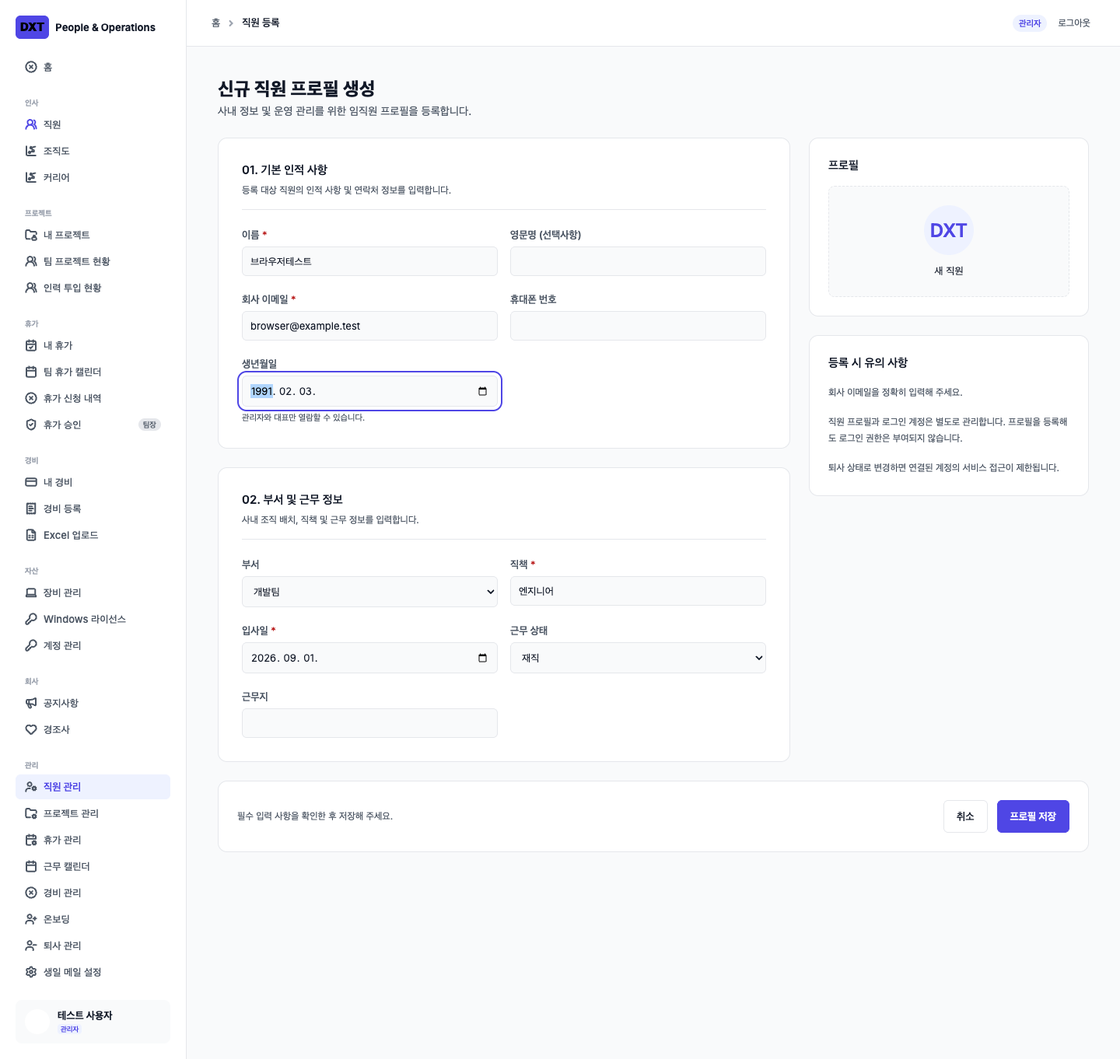
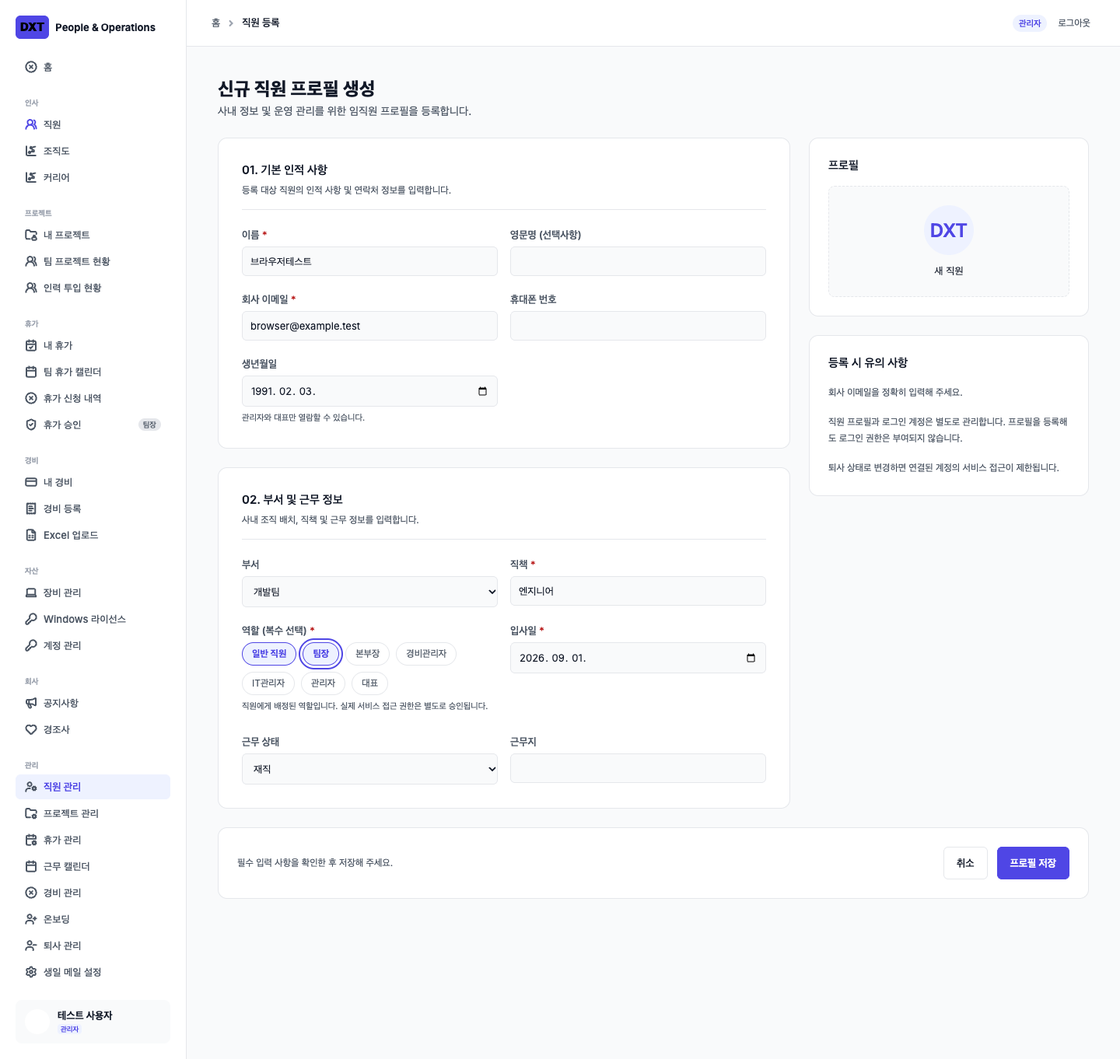
Add atomic employee-domain role assignment without auth escalation

diff --git a/tests/employee-roles.test.ts b/tests/employee-roles.test.ts
@@ -1,0 +1,69 @@
+import { test } from 'node:test';
+import assert from 'node:assert/strict';
+import { domainDatabase, asUser, personId } from './domain-fixture';
+import { idFor } from './e2e/fixtures';
+import { employeeInput } from '../src/lib/employees/validation';
+import { ROLES, can, parseMembership } from '../src/lib/permissions';
+const profile = { name: '역할 테스트', company_email: 'roles@example.test', title: '개발자', hire_date: '2026-09-01', employment_status: 'ACTIVE', roles: ['EMPLOYEE','TEAM_LEADER','IT_ADMIN'] };
+test('role validation requires approved values and deduplicates multi-select submissions', () => {
+ const form = new FormData();
+ for (const [key,value] of Object.entries(profile)) if (key !== 'roles') form.set(key,String(value));
+ assert.throws(()=>employeeInput(form));
+ form.append('roles','EMPLOYEE'); form.append('roles','TEAM_LEADER'); form.append('roles','TEAM_LEADER');
+ assert.deepEqual(employeeInput(form).roles,['EMPLOYEE','TEAM_LEADER']);
+ form.append('roles','PRIVATE_HR_ACCESS');assert.throws(()=>employeeInput(form));
+});
+test('domain roles migrate, persist atomically and never grant auth privileges', async () => {
+ const db = await domainDatabase();
+ const roles = async (id: string) => (await db.query<{role:string}>('select role from employee_role where employee_id=$1 order by role',[id])).rows.map(row=>row.role);
+ const readProfile = async (id: string) => (await db.query<{name:string;version:number}>('select name,version from employee where id=$1',[id])).rows[0];
+ try {
+  // Upgrade of a pre-existing profile gets an ordinary domain role only.
+  assert.deepEqual(await roles(personId),['EMPLOYEE']);
+  const newId = crypto.randomUUID();
+  const beforeMembers = (await db.query('select * from app_memberships order by user_id')).rows;
+  const beforeUsers = (await db.query('select * from auth.users order by id')).rows;
+  await asUser(db,'admin',tx=>tx.query('select save_employee_profile($1,$2,0)',[newId,profile]));
+  assert.deepEqual(await roles(newId),['EMPLOYEE','IT_ADMIN','TEAM_LEADER']);
+  assert.equal((await db.query<{auth_user_id:string|null}>('select auth_user_id from employee where id=$1',[newId])).rows[0].auth_user_id,null);
+  await asUser(db,'employee',async tx=>assert.equal((await tx.query('select * from employee_role where employee_id=$1',[newId])).rows.length,3));
+  for (const name of ['employee','leader','division','expense','it','combined','inactive','unprovisioned']) {
+   await assert.rejects(asUser(db,name,tx=>tx.query("insert into employee_role values($1,'CEO')",[newId])));
+   await asUser(db,name,async tx=>{
+    assert.equal((await tx.query("update employee_role set role='CEO' where employee_id=$1 returning role",[newId])).rows.length,0);
+    assert.equal((await tx.query('delete from employee_role where employee_id=$1 returning role',[newId])).rows.length,0);
+   });
+   await assert.rejects(asUser(db,name,tx=>tx.query('select save_employee_profile($1,$2,1)',[newId,{...profile,roles:['CEO']}])));
+  }
+  for (const invalid of [[],['UNKNOWN'],['HR_ADMIN'],['PRIVATE_HR_ACCESS'],[null],'CEO',null]) {
+   await assert.rejects(asUser(db,'admin',tx=>tx.query('select save_employee_profile($1,$2,1)',[newId,{...profile,name:'must roll back',roles:invalid}])));
+  }
+  await assert.rejects(asUser(db,'admin',tx=>tx.query("insert into employee_role values($1,'INVALID')",[newId])));
+  await assert.rejects(asUser(db,'admin',tx=>tx.query('delete from employee_role where employee_id=$1',[newId])));
+  assert.deepEqual(await roles(newId),['EMPLOYEE','IT_ADMIN','TEAM_LEADER']);
+  assert.deepEqual(await readProfile(newId),{name:profile.name,version:1});
+  await asUser(db,'admin',tx=>tx.query('select save_employee_profile($1,$2,1)',[newId,{...profile,name:'Updated',roles:['EMPLOYEE','CEO']} ]));
+  await assert.rejects(asUser(db,'admin',tx=>tx.query('select save_employee_profile($1,$2,1)',[newId,{...profile,roles:['ADMIN']}])));
+  assert.deepEqual(await roles(newId),['CEO','EMPLOYEE']);assert.deepEqual(await readProfile(newId),{name:'Updated',version:2});
+  // A later ciphertext constraint failure rolls profile AND role replacement back.
+  await assert.rejects(asUser(db,'admin',tx=>tx.query('select save_employee_profile($1,$2,2,$3)',[newId,{...profile,roles:['ADMIN']},'plaintext-invalid'])));
+  assert.deepEqual(await roles(newId),['CEO','EMPLOYEE']);assert.equal((await readProfile(newId)).version,2);
+  const failedId=crypto.randomUUID();
+  await assert.rejects(asUser(db,'admin',tx=>tx.query('select save_employee_profile($1,$2,0,$3)',[failedId,{...profile,company_email:'failed@example.test'},'plaintext-invalid'])));
+  assert.equal(await readProfile(failedId),undefined);assert.deepEqual(await roles(failedId),[]);
+  // Linked ordinary ADMIN assigns CEO in their HR profile: PRIVATE_HR_ACCESS stays denied.
+  await db.query('update employee set auth_user_id=$1 where id=$2',[idFor('admin'),newId]);
+  await asUser(db,'admin',async tx=>{
+   const capability = await tx.query<{allowed:boolean}>("select has_app_capability('PRIVATE_HR_ACCESS') as allowed");assert.equal(capability.rows[0].allowed,false);
+   assert.equal((await tx.query('select * from employee_private_hr')).rows.length,0);
+   const membership = (await tx.query('select * from app_memberships')).rows[0];
+   assert.equal(can(parseMembership(idFor('admin'),membership)!, 'PRIVATE_HR_ACCESS'),false);
+  });
+  // All seven domain roles may coexist, with no automatic membership changes.
+  await asUser(db,'ceo',tx=>tx.query('select save_employee_profile($1,$2,2)',[newId,{...profile,roles:[...ROLES]}]));
+  assert.equal((await roles(newId)).length,7);
+  assert.deepEqual((await db.query('select * from app_memberships order by user_id')).rows,beforeMembers);
+  assert.deepEqual((await db.query('select * from auth.users order by id')).rows,beforeUsers);
+  await asUser(db,'inactive',async tx=>assert.equal((await tx.query('select * from employee_role')).rows.length,0));
+ } finally { await db.close(); }
+});

diff --git a/tests/e2e/employees.spec.ts b/tests/e2e/employees.spec.ts
@@ -19,16 +19,23 @@ test('admin creates, validates, edits and inactivates a profile without private 
  await page.getByLabel('회사 이메일').fill('browser@example.test');await page.getByLabel('직책',{exact:false}).fill('엔지니어');
  await page.getByLabel('입사일').fill('2026-09-01');await page.getByLabel('생년월일',{exact:true}).fill('1991-02-03');
  await page.getByLabel('부서',{exact:true}).selectOption('20000000-0000-4000-8000-000000000001');
+ await page.getByRole('checkbox',{name:'팀장',exact:true}).press('Space');
+ await expect(page.getByRole('checkbox',{name:'팀장',exact:true})).toBeChecked();
  await page.screenshot({path:'docs/screenshots/phase2-employee-new.png',fullPage:true});
  await page.getByRole('button',{name:'프로필 저장'}).click();await expect(page.getByRole('status')).toHaveText('프로필이 저장되었습니다.');
  await expect(page.getByRole('link',{name:'HR Private'})).toHaveCount(0);
+ await expect(page.getByText('일반 직원 · 팀장',{exact:true})).toBeVisible();
  await page.screenshot({path:'docs/screenshots/phase2-employee-detail.png',fullPage:true});
  await page.getByRole('link',{name:'프로필 수정',exact:true}).click();
  await expect(page.getByRole('heading',{name:'직원 프로필 수정',exact:true})).toBeVisible();
  await expect(page.getByLabel('생년월일',{exact:true})).toHaveValue('');
  await page.getByRole('button',{name:'등록된 생년월일 열람'}).click();await expect(page.getByRole('status')).toHaveText('1991-02-03');
  await page.getByRole('button',{name:'생년월일 숨기기'}).click();await expect(page.getByText('1991-02-03',{exact:true})).toHaveCount(0);
+ await expect(page.getByRole('checkbox',{name:'팀장',exact:true})).toBeChecked();
+ await page.getByRole('checkbox',{name:'팀장',exact:true}).press('Space');
+ await page.getByRole('checkbox',{name:'IT관리자',exact:true}).press('Space');
  await page.getByLabel('근무 상태',{exact:true}).selectOption('INACTIVE');await page.getByRole('button',{name:'프로필 저장'}).click();await expect(page.getByRole('status')).toHaveText('프로필이 저장되었습니다.');
+ await expect(page.getByText('일반 직원 · IT관리자',{exact:true})).toBeVisible();
  await page.goto('/admin/employees?status=INACTIVE');await expect(page.getByRole('link',{name:/브라우저테스트 browser@example.test/})).toBeVisible();
  await page.goto('/admin/employees?status=ACTIVE');await expect(page.getByRole('link',{name:/브라우저테스트 browser@example.test/})).toHaveCount(0);
  await page.screenshot({path:'docs/screenshots/phase2-directory.png',fullPage:true});
@@ -79,4 +86,20 @@ test('server actions recheck the current role even from an already-open private 
  await expect(page.getByRole('heading',{name:'페이지를 찾을 수 없습니다'})).toBeVisible();
  await page.unroute('**/admin/employees/**');
  await loginAs(context,'ceo');await page.goto(`/admin/employees/${id}/private`);await page.getByRole('button',{name:'민감정보 열람',exact:true}).click();await expect(page.getByText('000-test-123',{exact:true})).toBeVisible();await expect(page.getByText('999',{exact:true})).toHaveCount(0);
+});
+test('role selection is required and planned CEO role never changes session privileges',async({page,context})=>{
+ await loginAs(context,'admin');await page.goto(`/admin/employees/${id}/edit`);
+ await page.getByRole('checkbox',{name:'일반 직원',exact:true}).press('Space');
+ await page.getByRole('button',{name:'프로필 저장'}).click();
+ await expect(page.locator('#roles-error')).toHaveText('역할을 하나 이상 선택해 주세요.');
+ await page.goto(`/admin/employees/${id}/edit`);
+ await page.getByRole('checkbox',{name:'대표',exact:true}).press('Space');
+ await page.getByRole('button',{name:'프로필 저장'}).click();
+ await expect(page.getByText('일반 직원 · 대표',{exact:true})).toBeVisible();
+ await expect(page.getByRole('link',{name:'HR Private',exact:true})).toHaveCount(0);
+ expect((await page.goto(`/admin/employees/${id}/private`))!.status()).toBe(404);
+ await loginAs(context,'employee');await page.goto(`/people/${id}`);
+ await expect(page.getByText('일반 직원 · 대표',{exact:true})).toBeVisible();
+ await expect(page.getByRole('link',{name:'프로필 수정',exact:true})).toHaveCount(0);
+ expect((await page.goto(`/admin/employees/${id}/edit`))!.status()).toBe(404);
 });

diff --git a/src/components/employees/screens.tsx b/src/components/employees/screens.tsx
@@ -2,7 +2,7 @@ import Link from "next/link";
 import { notFound } from "next/navigation";
 import { can, type Principal } from "@/lib/permissions";
 import { employeeDirectory, organizations, getEmployee, birthRecord, privateRecord, type SearchParams } from "@/lib/employees/data";
-import type { Employee, Organization } from "@/lib/employees/types";
+import { EMPLOYEE_ROLE_LABELS, type Employee, type Organization } from "@/lib/employees/types";
 import { EmployeeForm, OrganizationForm, PrivatePanel } from "./forms";
 export function Status({ status }: { status: Employee["employment_status"] }) {
   return <span className={`status-chip ${status === "ACTIVE" ? "is-active" : "is-inactive"}`}>{status === "ACTIVE" ? "재직" : "퇴사"}</span>;
@@ -44,7 +44,7 @@ export async function EmployeeDetail({ id, admin, principal, query }: { id: stri
     {query.saved === "1" && <p role="status" className="success-notice">프로필이 저장되었습니다.</p>}
     <section className="surface profile-summary"><span className="person-avatar large">{employee.name.slice(0, 1)}</span><div className="profile-meta"><div className="button-row"><h1>{employee.name}</h1><Status status={employee.employment_status} /></div><p>{employee.company_email}<span>｜</span>{departments.find(d => d.id === employee.department_id)?.name || "미배정"}<span>｜</span>{employee.title}</p></div>{admin && <Link className="button" href={`${base}/edit`}>프로필 수정</Link>}</section>
     <nav className="employee-tabs" aria-label="직원 상세 탭">{[["profile", "프로필"], ["projects", "프로젝트"], ["career", "커리어"], ["assets", "장비"]].map(([key, label]) => <Link key={key} href={`${base}?tab=${key}`} aria-current={tab === key ? "page" : undefined}>{label}</Link>)}{can(principal, "PRIVATE_HR_ACCESS") && <Link href={`/admin/employees/${id}/private`}>HR Private</Link>}</nav>
-    {tab === "profile" ? <section className="surface"><h2>기본 / 근무 정보</h2><dl className="profile-facts">{[["이름", employee.name], ["영문명", employee.english_name], ["회사 이메일", employee.company_email], ["휴대폰 번호", employee.phone], ["부서", departments.find(d => d.id === employee.department_id)?.name], ["직책", employee.title], ["입사일", employee.hire_date], ["근무지", employee.work_location]].map(([label, value]) => <div key={label}><dt>{label}</dt><dd>{value || "—"}</dd></div>)}</dl></section> : <section className="surface empty-state"><h2>{tab === "projects" ? "프로젝트 정보를 준비하고 있습니다" : tab === "career" ? "커리어 정보를 준비하고 있습니다" : "장비 정보를 준비하고 있습니다"}</h2><p>서비스 준비가 완료되면 이곳에서 확인할 수 있습니다.</p></section>}
+    {tab === "profile" ? <section className="surface"><h2>기본 / 근무 정보</h2><dl className="profile-facts">{[["역할", employee.roles.map(role => EMPLOYEE_ROLE_LABELS[role]).join(" · ")], ["이름", employee.name], ["영문명", employee.english_name], ["회사 이메일", employee.company_email], ["휴대폰 번호", employee.phone], ["부서", departments.find(d => d.id === employee.department_id)?.name], ["직책", employee.title], ["입사일", employee.hire_date], ["근무지", employee.work_location]].map(([label, value]) => <div key={label}><dt>{label}</dt><dd>{value || "—"}</dd></div>)}</dl></section> : <section className="surface empty-state"><h2>{tab === "projects" ? "프로젝트 정보를 준비하고 있습니다" : tab === "career" ? "커리어 정보를 준비하고 있습니다" : "장비 정보를 준비하고 있습니다"}</h2><p>서비스 준비가 완료되면 이곳에서 확인할 수 있습니다.</p></section>}
   </>;
 }
 export async function HrPrivateScreen({ id, query }: { id: string; query: SearchParams }) {

diff --git a/tests/employees.test.ts b/tests/employees.test.ts
@@ -17,10 +17,10 @@ test('authenticated encryption binds values to employee and field, detects tampe
  assert.throws(()=>decryptValue(c,personId+':private',{activeId:'next',keys:{next:next.keys.next}}));
  assert.throws(()=>parseKeyring('{}','missing')); assert.throws(()=>parseKeyring('{"test":"abc"}','test'));
 });
-test('validation rejects malformed dates and private data; employee payload cannot grant roles',()=>{
+test('validation rejects malformed dates and private data; employee payload validates domain roles and cannot assign auth identities',()=>{
  assert(!validDate('2026-02-30')); assert(validDate('2024-02-29'));
  const f=new FormData(); for(const [k,v] of Object.entries({name:' Test ',company_email:'TEST@EXAMPLE.TEST',title:'Dev',hire_date:'2026-01-01',employment_status:'ACTIVE',roles:'CEO',auth_user_id:idFor('employee')})) f.set(k,v);
- const input=employeeInput(f); assert.equal(input.company_email,'test@example.test'); assert(!('roles' in input));assert(!('auth_user_id' in input));
+ const input=employeeInput(f); assert.equal(input.company_email,'test@example.test'); assert.deepEqual(input.roles,['CEO']);assert(!('auth_user_id' in input));
  f.set('hire_date','2026-02-30'); assert.throws(()=>employeeInput(f));
  const p=new FormData();p.set('salary','-1'); assert.throws(()=>privateInput(p,emptyPrivate()));
  p.set('salary','');assert.equal(privateInput(p,{...emptyPrivate(),salary:'123'}).salary,'123');p.set('clear_salary','on');assert.equal(privateInput(p,{...emptyPrivate(),salary:'123'}).salary,'');
@@ -35,7 +35,7 @@ test('domain RLS, atomic changes, private encryption, audit and inactive linked 
    assert.equal((await tx.query('select * from employee_birth_detail')).rows.length,allowed||name==='admin'?1:0);
   });
   for(const name of ['employee','leader','division','expense','it','combined','inactive','unprovisioned']) {
-   await assert.rejects(asUser(db,name,tx=>tx.query('select save_employee_profile($1,$2,0)',[crypto.randomUUID(),{name:'X',company_email:'x@example.test',title:'T',hire_date:'2026-01-01',employment_status:'ACTIVE'}])));
+   await assert.rejects(asUser(db,name,tx=>tx.query('select save_employee_profile($1,$2,0)',[crypto.randomUUID(),{name:'X',company_email:'x@example.test',title:'T',hire_date:'2026-01-01',employment_status:'ACTIVE',roles:['EMPLOYEE']}])));
    await assert.rejects(asUser(db,name,tx=>tx.query('select record_private_hr_view($1)',[personId])));
    await assert.rejects(asUser(db,name,tx=>tx.query('select record_birth_view($1)',[personId])));
    await assert.rejects(asUser(db,name,tx=>tx.query("insert into organization(name) values ('forbidden')")));
@@ -44,7 +44,7 @@ test('domain RLS, atomic changes, private encryption, audit and inactive linked 
   await assert.rejects(asUser(db,'admin',tx=>tx.query('update employee set auth_user_id=$1 where id=$2',[idFor('admin'),personId])));
   await assert.rejects(asUser(db,'ceo',tx=>tx.exec("update app_memberships set roles=array['CEO']")));
   await assert.rejects(asUser(db,'ceo',tx=>tx.exec("insert into audit_log(action,entity_type,entity_id) values('FORGED','employee',gen_random_uuid())")));
-  const profile={name:'수정테스트',company_email:'new@example.test',title:'직책',hire_date:'2026-01-01',employment_status:'ACTIVE'};
+  const profile={name:'수정테스트',company_email:'new@example.test',title:'직책',hire_date:'2026-01-01',employment_status:'ACTIVE',roles:['EMPLOYEE']};
   const newId=crypto.randomUUID();
   await assert.rejects(asUser(db,'ceo',tx=>tx.query('select save_employee_profile($1,$2,0,null,false,$3)',[newId,profile,'plaintext-secret'])));
   assert.equal((await db.query('select id from employee where id=$1',[newId])).rows.length,0);

diff --git a/src/components/employees/forms.tsx b/src/components/employees/forms.tsx
@@ -1,8 +1,9 @@
 "use client";
 import Link from "next/link";
+import { ROLES } from "@/lib/permissions";
 import { useActionState, useEffect, useState, useTransition } from "react";
 import { saveEmployee, saveOrganization, savePrivate, revealPrivate, revealBirth } from "@/app/actions/employees";
-import { PRIVATE_FIELDS, PRIVATE_LABELS, type Employee, type Organization, type FormState, type PrivateValues } from "@/lib/employees/types";
+import { PRIVATE_FIELDS, PRIVATE_LABELS, EMPLOYEE_ROLE_LABELS, type EmployeeProfile, type Organization, type FormState, type PrivateValues } from "@/lib/employees/types";
 function Feedback({ state }: { state: FormState }) {
   return state.error ? <div role="alert" className="form-error">{state.error}</div> : null;
 }
@@ -20,7 +21,7 @@ function PrivateInputs({ state, editable = false }: { state: FormState; editable
     {editable && <label className="check-label"><input type="checkbox" name={`clear_${name}`} />기존 {PRIVATE_LABELS[name]} 삭제</label>}
   </div>)}</div>;
 }
-export function EmployeeForm({ employee, departments, privateAccess, hasBirth }: { employee?: Employee; departments: Organization[]; privateAccess: boolean; hasBirth?: boolean }) {
+export function EmployeeForm({ employee, departments, privateAccess, hasBirth }: { employee?: EmployeeProfile; departments: Organization[]; privateAccess: boolean; hasBirth?: boolean }) {
   const [state, action, pending] = useActionState(saveEmployee.bind(null, employee?.id || null), {} as FormState);
   return <form action={action} className="employee-form">
     <input type="hidden" name="version" value={employee?.version || 0} />
@@ -41,6 +42,15 @@ export function EmployeeForm({ employee, departments, privateAccess, hasBirth }:
         <div className="field-grid">
           <label className="field"><span>부서</span><select aria-label="부서" name="department_id" defaultValue={employee?.department_id || ""}><option value="">미배정</option>{departments.map(d => <option key={d.id} value={d.id}>{d.name}</option>)}</select>{state.fields?.department_id && <small className="field-error">{state.fields.department_id}</small>}</label>
           <Field label="직책" name="title" value={employee?.title} required state={state} />
+          <fieldset className="employee-role-field" aria-describedby="roles-hint roles-error" aria-invalid={Boolean(state.fields?.roles)}>
+            <legend>역할 (복수 선택) <span className="required">*</span></legend>
+            <div className="role-options">{ROLES.map(role => <label className="role-option" key={role}>
+              <input className="sr-only" type="checkbox" name="roles" value={role} defaultChecked={(employee?.roles || ["EMPLOYEE"]).includes(role)} />
+              <span>{EMPLOYEE_ROLE_LABELS[role]}</span>
+            </label>)}</div>
+            <small id="roles-hint">직원에게 배정된 역할입니다. 실제 서비스 접근 권한은 별도로 승인됩니다.</small>
+            <small className="field-error" id="roles-error">{state.fields?.roles}</small>
+          </fieldset>
           <Field label="입사일" name="hire_date" value={employee?.hire_date} required type="date" state={state} />
           <label className="field"><span>근무 상태</span><select aria-label="근무 상태" name="employment_status" defaultValue={employee?.employment_status || "ACTIVE"}><option value="ACTIVE">재직</option><option value="INACTIVE">퇴사</option></select></label>
           <Field label="근무지" name="work_location" value={employee?.work_location} state={state} maxLength={200} />

diff --git a/tests/e2e/mock-supabase.ts b/tests/e2e/mock-supabase.ts
@@ -6,6 +6,7 @@ async function main() {
 const db = await domainDatabase();
 const tables: Record<string,string[]> = {
  employee: ['id','name','english_name','company_email','phone','department_id','title','hire_date','employment_status','work_location','version'],
+ employee_role: ['employee_id','role'],
  organization: ['id','name','parent_id','type','version'],
  employee_private_hr: ['employee_id','encrypted_payload','version'], employee_birth_detail: ['employee_id','birth_date_encrypted'],
 };
@@ -52,7 +53,8 @@ const server = createServer(async (request, response) => {
      const table=url.pathname.split('/').at(-1)!; const allowed=tables[table];
      if(!allowed) throw new Error('Unsupported test table');
      const columns=(url.searchParams.get('select') || '*').split(',');
-     if(columns.some(c=>!allowed.includes(c))) throw new Error('Unsupported test column');
+     const roleRelation = table === 'employee' && columns.includes('employee_role(role)');
+     if(columns.some(c=>!allowed.includes(c) && !(roleRelation && c === 'employee_role(role)'))) throw new Error('Unsupported test column');
      const params: unknown[]=[]; const bind=(v:unknown)=>{params.push(v);return '$'+params.length;};
      const where: string[]=[];
      for(const [key,value] of url.searchParams) {
@@ -67,7 +69,7 @@ const server = createServer(async (request, response) => {
       const count=await tx.query<{n: number}>(`select count(*)::int as n from ${table}${condition}`,params);
       const order=(url.searchParams.get('order') || '').split(',').filter(Boolean).map(p=>{const [col,dir]=p.split('.');if(!allowed.includes(col)||!['asc','desc'].includes(dir)) throw new Error('Unsupported test order');return col+' '+dir;});
       const offset=Number(url.searchParams.get('offset') || 0),limit=Number(url.searchParams.get('limit') || 1000);
-      const r=await tx.query(`select ${columns.join(',')} from ${table}${condition}${order.length?' order by '+order.join(','):''} limit ${bind(limit)} offset ${bind(offset)}`,params);
+      const r=await tx.query(`select ${columns.map(c=>c === 'employee_role(role)' ? `(select coalesce(json_agg(json_build_object('role',er.role)),'[]'::json) from employee_role er where er.employee_id=employee.id) as employee_role` : c).join(',')} from ${table}${condition}${order.length?' order by '+order.join(','):''} limit ${bind(limit)} offset ${bind(offset)}`,params);
       return {data:r.rows.map(row => { const value = row as Record<string,unknown>; if(value.hire_date instanceof Date) value.hire_date=value.hire_date.toISOString().slice(0,10); return value; }),count:Number(count.rows[0].n)};
      }
      if(table!=='organization'||!['POST','PATCH'].includes(request.method!)) throw new Error('Unsupported test mutation');

diff --git a/src/lib/employees/validation.ts b/src/lib/employees/validation.ts
@@ -1,3 +1,4 @@
+import { ROLES, type Role } from "../permissions";
 import { PRIVATE_FIELDS, type EmployeeInput, type PrivateValues } from "./types";
 export class ValidationError extends Error {
   constructor(public fields: Record<string, string>) { super("입력 내용을 확인해 주세요."); }
@@ -14,6 +15,9 @@ export function versionFrom(form: FormData): number {
 }
 export function employeeInput(form: FormData): EmployeeInput {
   const fields: Record<string, string> = {};
+  const submittedRoles = form.getAll("roles");
+  if (!submittedRoles.length || submittedRoles.some(role => typeof role !== "string" || !ROLES.includes(role as Role))) fields.roles = "역할을 하나 이상 선택해 주세요.";
+  const roles = ROLES.filter(role => submittedRoles.includes(role));
   const read = (key: string, max: number, required = false) => {
     const value = text(form, key);
     if ((required && !value) || value.length > max) fields[key] = required && !value ? "필수 입력 항목입니다." : `${max}자 이내로 입력해 주세요.`;
@@ -27,7 +31,7 @@ export function employeeInput(form: FormData): EmployeeInput {
   if (department_id && !isUuid(department_id)) fields.department_id = "부서를 다시 선택해 주세요.";
   if (!["ACTIVE", "INACTIVE"].includes(employment_status)) fields.employment_status = "근무 상태를 선택해 주세요.";
   if (Object.keys(fields).length) throw new ValidationError(fields);
-  return { name, english_name: english_name || null, company_email, phone: phone || null, title, work_location: work_location || null, department_id: department_id || null, hire_date, employment_status: employment_status as "ACTIVE" | "INACTIVE" };
+  return { roles, name, english_name: english_name || null, company_email, phone: phone || null, title, work_location: work_location || null, department_id: department_id || null, hire_date, employment_status: employment_status as "ACTIVE" | "INACTIVE" };
 }
 export function birthInput(form: FormData): string {
   const birth = text(form, "birth_date");

diff --git a/src/lib/employees/data.ts b/src/lib/employees/data.ts
@@ -1,9 +1,10 @@
 import "server-only";
+import { ROLES } from "../permissions";
 import { notFound } from "next/navigation";
 import { createAuthClient } from "../auth/server";
 import { requireCapability } from "../auth/access";
 import { isUuid } from "./validation";
-import type { Employee, Organization } from "./types";
+import type { Employee, EmployeeProfile, Organization } from "./types";
 export const EMPLOYEE_COLUMNS = "id,name,english_name,company_email,phone,department_id,title,hire_date,employment_status,work_location,version";
 export async function employeeClient() {
   const client = await createAuthClient();
@@ -16,13 +17,14 @@ export async function organizations(): Promise<Organization[]> {
   if (error) throw new Error("Organization service unavailable");
   return data as Organization[];
 }
-export async function getEmployee(id: string): Promise<Employee> {
+export async function getEmployee(id: string): Promise<EmployeeProfile> {
   await requireCapability("EMPLOYEE_ACCESS", "/people");
   if (!isUuid(id)) notFound();
-  const { data, error } = await (await employeeClient()).from("employee").select(EMPLOYEE_COLUMNS).eq("id", id).maybeSingle();
+  const { data, error } = await (await employeeClient()).from("employee").select(`${EMPLOYEE_COLUMNS},employee_role(role)`).eq("id", id).maybeSingle();
   if (error) throw new Error("Employee service unavailable");
   if (!data) notFound();
-  return data as Employee;
+  const { employee_role, ...employee } = data;
+  return { ...employee, roles: ROLES.filter(role => employee_role.some(row => row.role === role)) } as EmployeeProfile;
 }
 export type SearchParams = Record<string, string | string[] | undefined>;
 export function directoryFilters(query: SearchParams) {

diff --git a/src/lib/employees/types.ts b/src/lib/employees/types.ts
@@ -1,8 +1,11 @@
+import { ROLE_LABELS, type Role } from "../permissions";
+export const EMPLOYEE_ROLE_LABELS = { ...ROLE_LABELS, EMPLOYEE: "일반 직원" };
 export interface Employee {
   id: string; name: string; english_name: string | null; company_email: string;
   phone: string | null; department_id: string | null; title: string; hire_date: string;
   employment_status: "ACTIVE" | "INACTIVE"; work_location: string | null; version: number;
 }
+export interface EmployeeProfile extends Employee { roles: Role[] }
 export interface Organization { id: string; name: string; parent_id: string | null; type: string | null; version: number }
 export const PRIVATE_FIELDS = ["resident_registration_number", "address", "bank_name", "bank_account", "salary", "emergency_contact"] as const;
 export type PrivateField = typeof PRIVATE_FIELDS[number];
@@ -12,4 +15,4 @@ export const PRIVATE_LABELS: Record<PrivateField, string> = {
 };
 export const emptyPrivate = (): PrivateValues => ({ resident_registration_number: "", address: "", bank_name: "", bank_account: "", salary: "", emergency_contact: "" });
 export interface FormState { error?: string; fields?: Record<string, string>; success?: string }
-export type EmployeeInput = Omit<Employee, "id" | "version">;
+export type EmployeeInput = Omit<EmployeeProfile, "id" | "version">;

diff --git a/src/app/globals.css b/src/app/globals.css
@@ -181,3 +181,12 @@ button:disabled { opacity: .65; cursor: wait; }
   .profile-meta p { gap: 8px; }
   .table-footer { flex-wrap: wrap; }
 }
+.employee-role-field { min-width: 0; border: 0; padding: 0; margin: 0; }
+.employee-role-field legend { padding: 0; margin-bottom: 6px; font-size: 13px; font-weight: 600; color: #4b5563; }
+.role-options { display: flex; flex-wrap: wrap; align-items: center; gap: 8px; }
+.role-option { position: relative; cursor: pointer; }
+.role-option > span { display: block; padding: 6px 12px; border: 1px solid var(--border); border-radius: 100px; font-size: 12px; color: #4b5563; }
+.role-option input:checked + span { background: #eef2ff; border-color: var(--brand); color: var(--brand); font-weight: 700; }
+.role-option input:focus-visible + span { outline: 2px solid var(--brand); outline-offset: 3px; }
+.employee-role-field small { display: block; margin-top: 6px; font-size: 11px; line-height: 1.6; color: var(--muted); }
+.employee-role-field small.field-error { color: #b91c1c; }

diff --git a/tests/domain-fixture.ts b/tests/domain-fixture.ts
@@ -19,6 +19,7 @@ export async function domainDatabase() {
  }
  await db.query("insert into organization(id,name) values($1,'개발팀')",[departmentId]);
  await db.query("insert into employee(id,name,company_email,title,hire_date,department_id,phone,work_location) values($1,'김테스트','kim@example.test','개발자','2025-01-02',$2,'010-0000-0000','서울')",[personId,departmentId]);
+ await db.exec(readFileSync('supabase/migrations/202609300003_employee_roles.sql','utf8'));
  await db.query('insert into employee_birth_detail values($1,$2)',[personId,encryptValue('1990-01-02',`${personId}:birth`,ring)]);
  await db.query('insert into employee_private_hr(employee_id,encrypted_payload) values($1,$2)',[personId,encryptValue(JSON.stringify({resident_registration_number:'900102-1234567',address:'테스트 전용 주소',bank_name:'테스트은행',bank_account:'000-test-123',salary:'50000000',emergency_contact:'테스트 연락처'}),`${personId}:private`,ring)]);
  return db;

diff --git a/docs/PHASE_2.md b/docs/PHASE_2.md
@@ -5,14 +5,14 @@ Implements Issue #2 from main `2805ad1`. The latest [issue guidance](https://git
 ## Routes and behavior
 
 - `/people` and `/admin/employees`: database-backed directory, name/email search, department and ACTIVE/INACTIVE/all filters, stable pagination and empty state. ADMIN/CEO see creation and editing controls.
-- `/admin/employees/new`, `/admin/employees/[id]/edit`: basic and work details, encrypted DOB, validation, duplicate-email feedback and optimistic concurrency. Creating a profile never provisions a login or changes roles.
-- `/people/[id]`, `/admin/employees/[id]`: actual profile and status, detail tabs. Project, career and equipment tabs remain neutral placeholders for their scheduled phases; no fabricated records.
+- `/admin/employees/new`, `/admin/employees/[id]/edit`: basic and work details, multi-select employee roles, encrypted DOB, validation, duplicate-email feedback and optimistic concurrency. Creating a profile never provisions a login or changes application-membership roles.
+- `/people/[id]`, `/admin/employees/[id]`: actual profile, assigned role labels and status, detail tabs. Project, career and equipment tabs remain neutral placeholders for their scheduled phases; no fabricated records.
 - `/organization`: hierarchy, department-directory links, ADMIN/CEO creation/editing; cycles and duplicate sibling names rejected.
 - `/admin/employees/[id]/private`: HR Private absent from unauthorized navigation and denied on direct, RSC and action requests. Default values are masked; explicit audited reveal auto-hides after 60 seconds or tab backgrounding. Blank edit fields preserve stored values; explicit checkboxes clear fields.
 
 ## Schema and authorization
 
-Apply `202609300001_foundation.sql`, then `202609300002_employees.sql`. The second migration adds `organization`, `employee`, `employee_birth_detail`, `employee_private_hr` and metadata-only `audit_log`, with RLS, restrictive grants and authenticated RPCs.
+Apply `202609300001_foundation.sql`, `202609300002_employees.sql`, then `202609300003_employee_roles.sql`. The second migration adds `organization`, `employee`, `employee_birth_detail`, `employee_private_hr` and metadata-only `audit_log`, with RLS, restrictive grants and authenticated RPCs.
 
 | Data / action | Employee and specialist roles | ADMIN | CEO / designated ADMIN |
 | --- | --- | --- | --- |
@@ -24,9 +24,17 @@ Apply `202609300001_foundation.sql`, then `202609300002_employees.sql`. The seco
 
 All access additionally requires ACTIVE membership and no INACTIVE linked employee. Role combinations remain additive. Database decisions read `auth.uid()` and current membership, not client role claims. Security-definer helpers have an empty search path and no caller-controlled identity. Profile writes run atomically with optional birth/private creation. Optimistic versions reject stale form submissions.
 
-`employee.auth_user_id` is nullable and writable only through trusted provisioning. Link an existing joined employee's auth user using trusted SQL; employee forms cannot grant login access, change roles or assign this link. The existing membership constraint still permits at most one non-CEO designated ADMIN. Deactivating a linked employee revokes access on subsequent protected requests and domain database queries.
+`employee.auth_user_id` is nullable and writable only through trusted provisioning. Link an existing joined employee's auth user using trusted SQL; employee forms cannot grant login access, change auth roles or assign this link. The existing membership constraint still permits at most one non-CEO designated ADMIN. Deactivating a linked employee revokes access on subsequent protected requests and domain database queries.
 
 The logical model's private fields are stored together in one authenticated encrypted JSON payload, including bank name. Full DOB uses a separate encrypted table because ordinary ADMIN has birthday-management access but no HR Private access. General employee queries never fetch either ciphertext. Initial private pages serialize only record presence/version to client components; decryption happens only in guarded server actions. Mutations and explicit reveals produce audit metadata (actor, action, entity, time), without input values or ciphertext.
+
+## Employee-domain roles
+
+The role chips follow Figma 03 (node `15:819`): wrapping 12px labels, pill borders, and indigo selected states, implemented as keyboard-accessible checkboxes. The profile displays all assigned role labels. At least one of the existing seven role values is required; duplicate selections are normalized.
+
+Migration `202609300003_employee_roles.sql` adds `employee_role(employee_id, role)` with a composite primary key, FK, enum-value check, RLS, and audit trigger. Existing profiles receive the ordinary EMPLOYEE domain role; nothing is copied to or from auth membership. A deferred constraint prevents an employee from ending a transaction with no roles. The version-checked profile RPC replaces the role set atomically with basic/birth/private writes; later validation failures roll everything back. Profile reads include roles in a single database query.
+
+Active employees may read normal domain roles. Only EMPLOYEE_MANAGE may mutate them. Assigning CEO or ADMIN in this table cannot affect navigation or sensitive capabilities: authorization continues to read only trusted `app_memberships` plus linked employment status. Tests explicitly assign CEO to an ordinary ADMIN's linked employee profile and confirm private HR remains denied and every auth membership is unchanged. A future trusted onboarding step may copy approved HR assignments; this form never does so.
 
 ## Encryption configuration
 
@@ -64,8 +72,8 @@ Screenshots use synthetic fixtures only:
 
 ## Verification and deployment boundary
 
-Local validation passed: 12 unit/database tests, 19 browser tests, lint, production build and TypeScript checks.
+Local validation passed: 14 unit/database tests, 20 browser tests, lint, production build and TypeScript checks.
 
 Run `npm run lint`, `npm test`, `npm run build`, `npm run typecheck` and `npm run test:e2e`. Tests cover role combinations, RLS, direct unauthorized writes, atomic rollback, encryption tampering/context/rotation, private initial HTML, audited reveal/masking, action reauthorization, profile creation/edit/inactivation, directory filters, organization edits and stale writes. Browser Auth is a test double; domain requests execute against the actual migrations in PGlite as the authenticated role.
 
-No live Supabase credentials or production employee data were available. Before deployment, apply both migrations to staging, configure real encryption keys and Google OAuth, provision test memberships and linked profiles, and verify the same flows against live Supabase/PostgREST. This PR does not claim live OAuth, production key management or deployed migration validation.
+No live Supabase credentials or production employee data were available. Before deployment, apply all migrations to staging, configure real encryption keys and Google OAuth, provision test memberships and linked profiles, and verify the same flows against live Supabase/PostgREST. This PR does not claim live OAuth, production key management or deployed migration validation.
